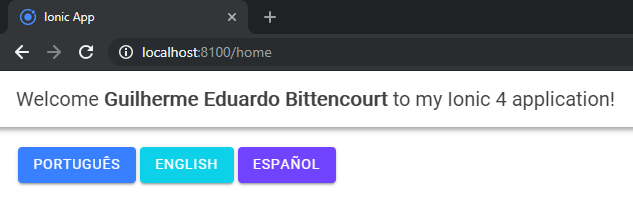
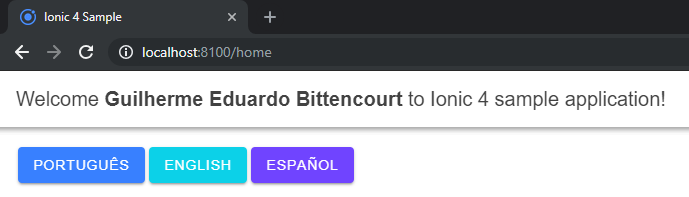
Unit tests and e2e tests

diff --git a/e2e/src/app.e2e-spec.ts b/e2e/src/app.e2e-spec.ts
@@ -7,8 +7,27 @@ describe('new App', () => {
     page = new AppPage();
   });
 
-  it('should be blank', () => {
+  it('title should contain "Welcome" when language is English', () => {
+
     page.navigateTo();
-    expect(page.getParagraphText()).toContain('The world is your oyster.');
+
+    page.getButton('English').click();
+    expect(page.getTitle()).toContain('Welcome');
+  });
+
+  it('title should contain "¡Bienvenido" when language is Spanish', () => {
+
+    page.navigateTo();
+
+    page.getButton('Español').click();
+    expect(page.getTitle()).toContain('¡Bienvenido');
+  });
+
+  it('title should contain "Bem vindo" when language is Portuguese Brazil', () => {
+
+    page.navigateTo();
+
+    page.getButton('Português').click();
+    expect(page.getTitle()).toContain('Bem vindo');
   });
 });

diff --git a/src/app/home/home.page.spec.ts b/src/app/home/home.page.spec.ts
@@ -1,3 +1,4 @@
+import { TranslateTestingModule } from 'ngx-translate-testing';
 import { CUSTOM_ELEMENTS_SCHEMA } from '@angular/core';
 import { async, ComponentFixture, TestBed } from '@angular/core/testing';
 
@@ -10,6 +11,9 @@ describe('HomePage', () => {
   beforeEach(async(() => {
     TestBed.configureTestingModule({
       declarations: [ HomePage ],
+      imports: [TranslateTestingModule.withTranslations('en', {
+        'WelcomeUser': 'WelcomeUser'
+      })],
       schemas: [CUSTOM_ELEMENTS_SCHEMA],
     })
       .compileComponents();

diff --git a/src/app/app.component.spec.ts b/src/app/app.component.spec.ts
@@ -22,7 +22,7 @@ describe('AppComponent', () => {
     TestBed.configureTestingModule({
       declarations: [AppComponent],
       schemas: [CUSTOM_ELEMENTS_SCHEMA],
-      imports: [TranslateTestingModule],
+      imports: [TranslateTestingModule.withTranslations('en', {})],
       providers: [
         { provide: StatusBar, useValue: statusBarSpy },
         { provide: SplashScreen, useValue: splashScreenSpy },

diff --git a/e2e/src/app.po.ts b/e2e/src/app.po.ts
@@ -5,7 +5,11 @@ export class AppPage {
     return browser.get('/');
   }
 
-  getParagraphText() {
-    return element(by.deepCss('app-root ion-content')).getText();
+  getTitle() {
+    return element(by.deepCss('ion-title')).getText();
+  }
+
+  getButton(text: string) {
+    return element(by.cssContainingText('.button', text));
   }
 }

diff --git a/src/index.html b/src/index.html
@@ -3,7 +3,7 @@
 
 <head>
   <meta charset="utf-8" />
-  <title>Ionic App</title>
+  <title>Ionic 4 Sample</title>
 
   <base href="/" />
 

diff --git a/README.md b/README.md
@@ -1,6 +1,29 @@
-# ionic-4-sample
+# Ionic 4 Sample
 
 Sample project with Ionic 4 and
 - [ngx-translate](https://github.com/ngx-translate/core): The internationalization (i18n) library for Angular
 
+# Dependencies
+
+- @angular (^7.2.2)
+- @ionic (^4.0.0)
+- @ngx-translate (^11.0.1)
+
+# Application Screenshot
+
 ![ionic-serve](https://github.com/gebittencourt/ionic-4-sample/blob/master/ionic-4-sample.png)
+
+# Step-by-step
+
+1. Clone this repository
+```
+git clone https://github.com/gebittencourt/ionic-4-sample.git
+```
+2. Install all dependencies: `npm install`
+3. Run the application: `ionic serve`
+
+Besides
+
+- Run lint verification: `npm run lint`
+- Run the unit tests: `npm run test`
+- Run the end-to-end tests: `npm run e2e`
